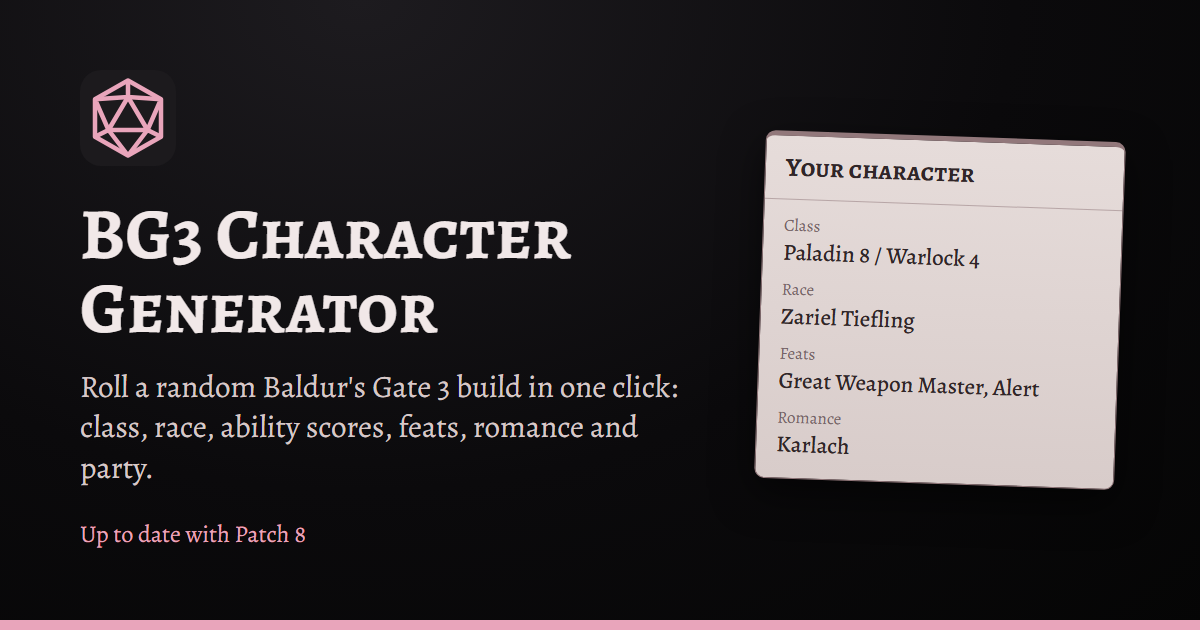
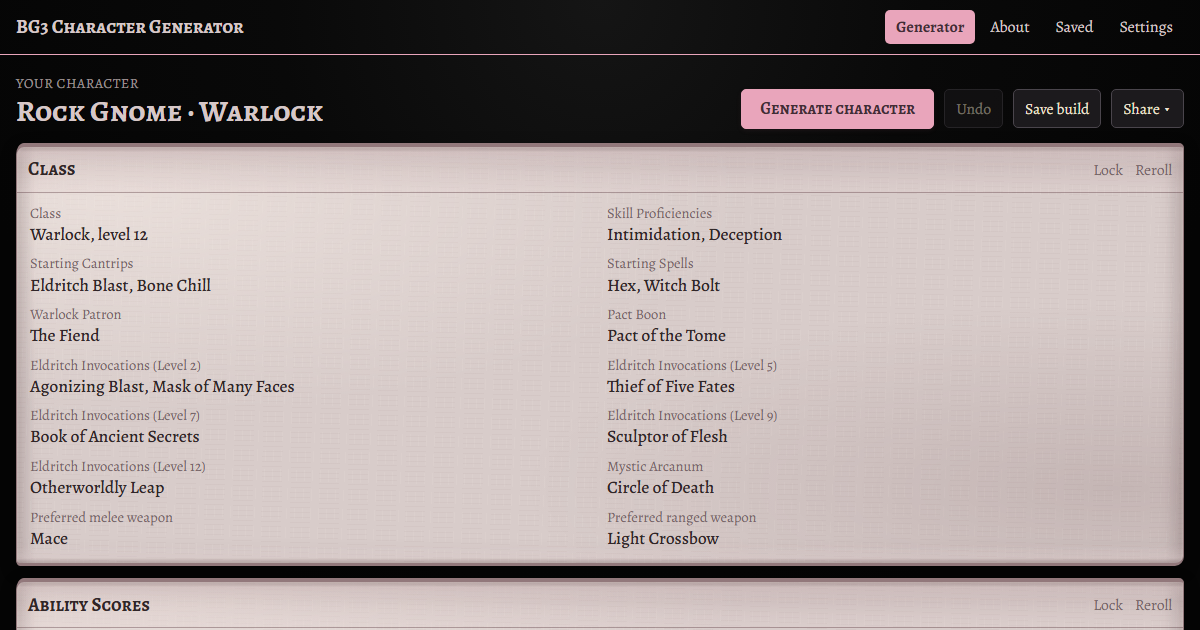
Use a real screenshot of the site as the link preview

diff --git a/about/index.html b/about/index.html
@@ -13,7 +13,7 @@
 <meta property="og:image" content="https://thefallz.github.io/BG3CharacterGenerator/og-image.png">
 <meta property="og:image:width" content="1200">
 <meta property="og:image:height" content="630">
-<meta property="og:image:alt" content="BG3 Character Generator: roll a random Baldur's Gate 3 build in one click">
+<meta property="og:image:alt" content="The BG3 Character Generator showing a rolled level 12 Warlock build">
 <meta name="twitter:card" content="summary_large_image">
 <meta name="theme-color" content="#050505">
 <link rel="icon" href="../favicon.svg" type="image/svg+xml">

diff --git a/saved/index.html b/saved/index.html
@@ -13,7 +13,7 @@
 <meta property="og:image" content="https://thefallz.github.io/BG3CharacterGenerator/og-image.png">
 <meta property="og:image:width" content="1200">
 <meta property="og:image:height" content="630">
-<meta property="og:image:alt" content="BG3 Character Generator: roll a random Baldur's Gate 3 build in one click">
+<meta property="og:image:alt" content="The BG3 Character Generator showing a rolled level 12 Warlock build">
 <meta name="twitter:card" content="summary_large_image">
 <meta name="theme-color" content="#050505">
 <link rel="icon" href="../favicon.svg" type="image/svg+xml">

diff --git a/settings/index.html b/settings/index.html
@@ -13,7 +13,7 @@
 <meta property="og:image" content="https://thefallz.github.io/BG3CharacterGenerator/og-image.png">
 <meta property="og:image:width" content="1200">
 <meta property="og:image:height" content="630">
-<meta property="og:image:alt" content="BG3 Character Generator: roll a random Baldur's Gate 3 build in one click">
+<meta property="og:image:alt" content="The BG3 Character Generator showing a rolled level 12 Warlock build">
 <meta name="twitter:card" content="summary_large_image">
 <meta name="theme-color" content="#050505">
 <link rel="icon" href="../favicon.svg" type="image/svg+xml">

diff --git a/index.html b/index.html
@@ -13,7 +13,7 @@
 <meta property="og:image" content="https://thefallz.github.io/BG3CharacterGenerator/og-image.png">
 <meta property="og:image:width" content="1200">
 <meta property="og:image:height" content="630">
-<meta property="og:image:alt" content="BG3 Character Generator: roll a random Baldur's Gate 3 build in one click">
+<meta property="og:image:alt" content="The BG3 Character Generator showing a rolled level 12 Warlock build">
 <meta name="twitter:card" content="summary_large_image">
 <meta name="theme-color" content="#050505">
 <link rel="icon" href="favicon.svg" type="image/svg+xml">
